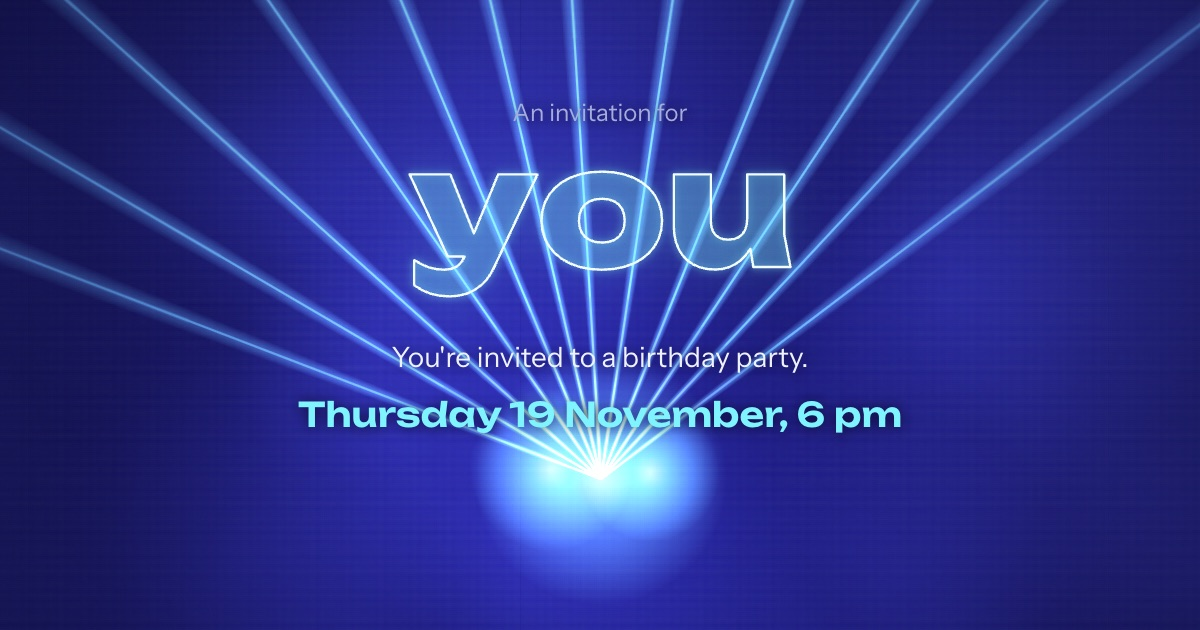
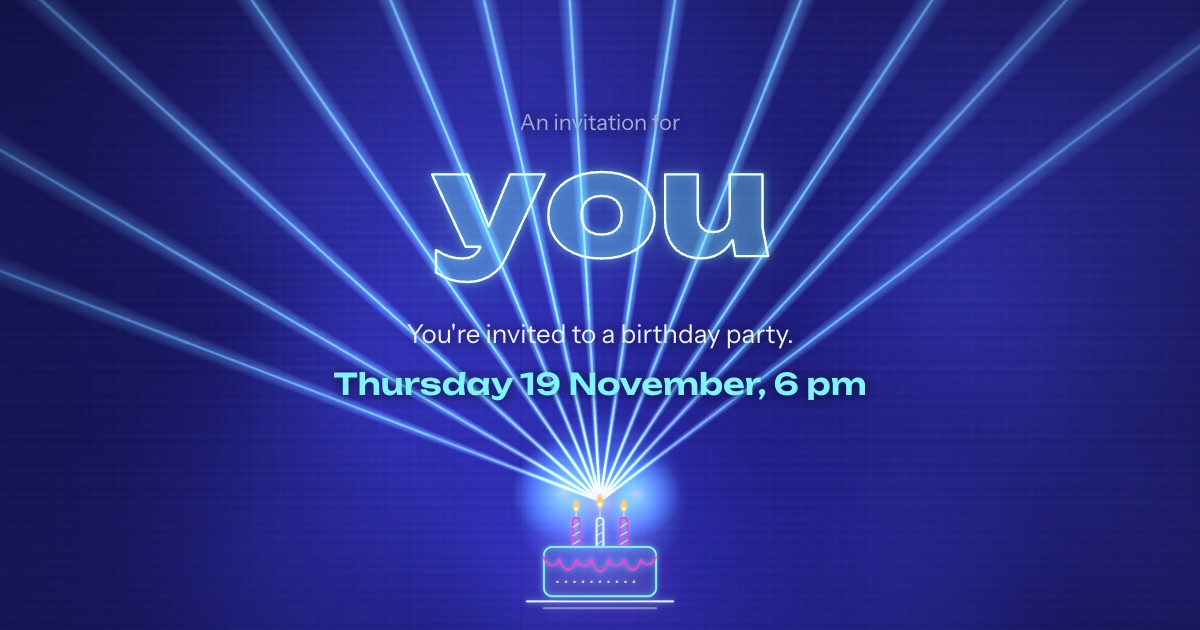
Add a neon birthday cake that the lasers fire from
An original line-art cake (three flickering candles, drip icing,
sprinkles) sits at the bottom of the first screen. It powers up like
neon tubing, then the writing beam and the whole light show come out of
its middle candle. The candle glow is smaller so the cake stays crisp.

Changed region(s): [[0.0, 0.0, 1.0, 0.9952], [0.555, 0.0, 0.5858, 0.0905]]

diff --git a/assets/css/invite.css b/assets/css/invite.css
@@ -119,7 +119,7 @@ main {
   display: grid;
   justify-items: center;
   gap: 12px;
-  padding-bottom: 16vh;
+  padding-block: 8px 3vh;
   text-shadow: 0 1px 14px rgba(5, 4, 26, 0.85);
 }
 
@@ -247,12 +247,130 @@ main {
   color: var(--magenta);
 }
 
-.hero__rig {
-  position: absolute;
-  left: 50%;
-  bottom: calc(env(safe-area-inset-bottom) + 104px);
-  width: 2px;
-  height: 2px;
+.hero__bottom {
+  display: grid;
+  justify-items: center;
+  gap: 4px;
+}
+
+/* The neon cake: tubes of light, three flickering flames, and the middle
+   flame doubling as the laser projector. */
+.cake {
+  display: block;
+  width: clamp(140px, 40vw, 210px);
+  height: auto;
+  overflow: visible;
+  filter: drop-shadow(0 0 3px rgba(124, 244, 255, 0.7)) drop-shadow(0 0 16px rgba(255, 59, 212, 0.35));
+}
+
+.cake__lines * {
+  fill: none;
+  stroke-width: 2.4;
+  stroke-linecap: round;
+  stroke-linejoin: round;
+}
+
+.cake .cake__body {
+  stroke: var(--beam);
+  fill: rgba(124, 244, 255, 0.07);
+}
+
+.cake__icing {
+  stroke: var(--magenta);
+}
+
+.cake__candle {
+  stroke: var(--ink);
+}
+
+.cake__candle--pink {
+  stroke: var(--magenta);
+}
+
+.cake .cake__stripes,
+.cake .cake__wick {
+  stroke: var(--ink);
+  stroke-width: 1.4;
+  opacity: 0.8;
+}
+
+.cake .cake__sprinkles {
+  stroke: var(--house);
+  stroke-width: 3.2;
+  stroke-dasharray: 0 10;
+}
+
+.cake__plate {
+  stroke: var(--ink);
+}
+
+.cake .cake__plate--soft {
+  opacity: 0.4;
+}
+
+.cake__flame {
+  fill: var(--house);
+  transform-box: fill-box;
+  transform-origin: 50% 100%;
+  animation: flicker 1.3s ease-in-out infinite alternate;
+}
+
+.cake__flame:nth-child(2) {
+  animation-duration: 1.05s;
+  animation-delay: -0.4s;
+}
+
+.cake__flame:nth-child(3) {
+  animation-duration: 1.5s;
+  animation-delay: -0.8s;
+}
+
+.cake__core {
+  fill: #fff;
+}
+
+.cake__rig {
+  fill: none;
+}
+
+@keyframes flicker {
+  0% {
+    transform: scale(1, 1) rotate(-3deg);
+  }
+  50% {
+    transform: scale(0.9, 1.1) rotate(2deg);
+  }
+  100% {
+    transform: scale(1.05, 0.94) rotate(-1deg);
+  }
+}
+
+/* The cake powers up like neon before the laser fires from its middle candle. */
+.hero.is-armed .cake {
+  opacity: 0;
+}
+
+.hero.is-armed.is-powered .cake {
+  opacity: 1;
+  animation: neon-on 700ms linear;
+}
+
+.hero.is-armed .cake__flames {
+  opacity: 0;
+  transition: opacity 300ms ease 500ms;
+}
+
+.hero.is-armed.is-powered .cake__flames {
+  opacity: 1;
+}
+
+@keyframes neon-on {
+  0% { opacity: 0; }
+  15% { opacity: 0.8; }
+  25% { opacity: 0.1; }
+  40% { opacity: 0.9; }
+  50% { opacity: 0.35; }
+  100% { opacity: 1; }
 }
 
 .hero__cue {
@@ -819,12 +937,8 @@ main {
     font-size: 18px;
   }
 
-  .hero__rig {
-    bottom: calc(env(safe-area-inset-bottom) + 150px);
-  }
-
   .hero__copy {
-    padding-bottom: 20vh;
+    padding-bottom: 5vh;
   }
 
   .tapes {

diff --git a/index.html b/index.html
@@ -46,11 +46,37 @@
         <p class="countdown__note" data-countdown-note hidden></p>
       </div>
 
-      <div class="hero__rig" aria-hidden="true"></div>
-      <a class="hero__cue" href="#details">
-        <span>See when and where</span>
-        <svg viewBox="0 0 24 24" width="20" height="20" aria-hidden="true"><path d="M6 9l6 6 6-6" fill="none" stroke="currentColor" stroke-width="1.6" stroke-linecap="round" stroke-linejoin="round"/></svg>
-      </a>
+      <div class="hero__bottom">
+        <!-- A neon birthday cake. The middle flame is the laser projector. -->
+        <svg class="cake" viewBox="0 0 200 166" aria-hidden="true" focusable="false">
+          <g class="cake__flames">
+            <path class="cake__flame" d="M72 30c5 7 6 12 0 17c-6-5-5-10 0-17z"/>
+            <path class="cake__flame" d="M100 24c5 8 7 13 0 19c-7-6-5-11 0-19z"/>
+            <path class="cake__flame" d="M128 30c5 7 6 12 0 17c-6-5-5-10 0-17z"/>
+            <circle class="cake__core" cx="72" cy="42" r="2"/>
+            <circle class="cake__core" cx="100" cy="37" r="2.4"/>
+            <circle class="cake__core" cx="128" cy="42" r="2"/>
+          </g>
+          <g class="cake__lines">
+            <path class="cake__wick" d="M72 47v6M100 43v10M128 47v6"/>
+            <rect class="cake__candle cake__candle--pink" x="68" y="53" width="8" height="34" rx="3"/>
+            <rect class="cake__candle" x="96" y="53" width="8" height="34" rx="3"/>
+            <rect class="cake__candle cake__candle--pink" x="124" y="53" width="8" height="34" rx="3"/>
+            <path class="cake__stripes" d="M68 64l8-5M68 74l8-5M68 84l8-5M96 64l8-5M96 74l8-5M96 84l8-5M124 64l8-5M124 74l8-5M124 84l8-5"/>
+            <rect class="cake__body" x="34" y="87" width="132" height="58" rx="10"/>
+            <path class="cake__icing" d="M34 99C38 111 48 113 52 101C56 117 68 119 72 102C76 111 86 113 90 101C94 121 106 121 110 102C114 111 124 113 128 101C132 117 144 119 148 102C152 109 160 111 166 99"/>
+            <path class="cake__sprinkles" d="M50 128H150"/>
+            <path class="cake__plate" d="M14 151H186"/>
+            <path class="cake__plate cake__plate--soft" d="M34 159H166"/>
+          </g>
+          <circle class="cake__rig" cx="100" cy="33" r="1"/>
+        </svg>
+
+        <a class="hero__cue" href="#details">
+          <span>See when and where</span>
+          <svg viewBox="0 0 24 24" width="20" height="20" aria-hidden="true"><path d="M6 9l6 6 6-6" fill="none" stroke="currentColor" stroke-width="1.6" stroke-linecap="round" stroke-linejoin="round"/></svg>
+        </a>
+      </div>
     </section>
 
     <div class="tapes" aria-hidden="true">

diff --git a/assets/js/stage.js b/assets/js/stage.js
@@ -242,14 +242,14 @@ export function createStage(canvas, { seed = 1, reducedMotion = false } = {}) {
     const base = Math.min(W, H);
     const wob = Math.sin(t * 1.3) * base * 0.01;
     const blobs = [
-      [src.x - base * 0.07 + wob, src.y - base * 0.015, base * 0.13],
-      [src.x + base * 0.07 - wob, src.y - base * 0.01, base * 0.11],
-      [src.x, src.y, base * 0.2],
+      [src.x - base * 0.05 + wob, src.y - base * 0.015, base * 0.08],
+      [src.x + base * 0.05 - wob, src.y - base * 0.01, base * 0.07],
+      [src.x, src.y, base * 0.14],
     ];
     for (const [x, y, r] of blobs) {
       const g = ctx.createRadialGradient(x, y, 0, x, y, r);
-      g.addColorStop(0, rgba([255, 255, 255], 0.5 * alpha));
-      g.addColorStop(0.25, rgba(color, 0.45 * alpha));
+      g.addColorStop(0, rgba([255, 255, 255], 0.4 * alpha));
+      g.addColorStop(0.25, rgba(color, 0.35 * alpha));
       g.addColorStop(1, rgba(color, 0));
       ctx.fillStyle = g;
       ctx.fillRect(x - r, y - r, r * 2, r * 2);

diff --git a/assets/js/invite.js b/assets/js/invite.js
@@ -313,7 +313,8 @@ function revealNights() {
 }
 
 function wireStage(stage) {
-  const rig = $('.hero__rig');
+  // Every beam comes out of the cake's middle candle.
+  const rig = $('.cake__rig');
   stage.setSource(() => {
     const r = rig.getBoundingClientRect();
     return { x: r.left + r.width / 2, y: r.top + r.height / 2 };
@@ -377,12 +378,14 @@ async function main() {
   });
 
   if (reducedMotion) {
-    hero.classList.add('is-drawing', 'is-lit', 'is-ready');
+    hero.classList.add('is-powered', 'is-drawing', 'is-lit', 'is-ready');
     return;
   }
 
+  // The cake powers up first; the laser fires from its candle once it's lit.
+  hero.classList.add('is-powered');
+  const ignite = 0.9;
   // Longer names take a little longer to write.
-  const ignite = 0.6;
   const letters = displayName.replace(/\s/g, '').length;
   const drawFor = built ? Math.min(5, Math.max(2.6, 1.2 + letters * 0.32)) : 2.2;
 

diff --git a/README.md b/README.md
@@ -12,7 +12,7 @@ Live site: https://you-are-invited-to-party.github.io/
 
 Each link is just the site address with the guest's name after `?`, for example `https://you-are-invited-to-party.github.io/?Sara` or `https://you-are-invited-to-party.github.io/?Ali+Rezaei` (use `+` for spaces). You can also type these by hand.
 
-Every invitation is unique: a laser writes the guest's name stroke by stroke, the light show's running order comes from the name, and the footer shows an invitation number. Tapping the stage fires the lasers at that spot.
+Every invitation is unique: a laser writes the guest's name stroke by stroke, the light show's running order comes from the name, and the footer shows an invitation number. A neon birthday cake sits at the bottom of the first screen and every beam comes out of its middle candle. Tapping the stage fires the lasers at that spot.
 
 ## Changing party details
 
